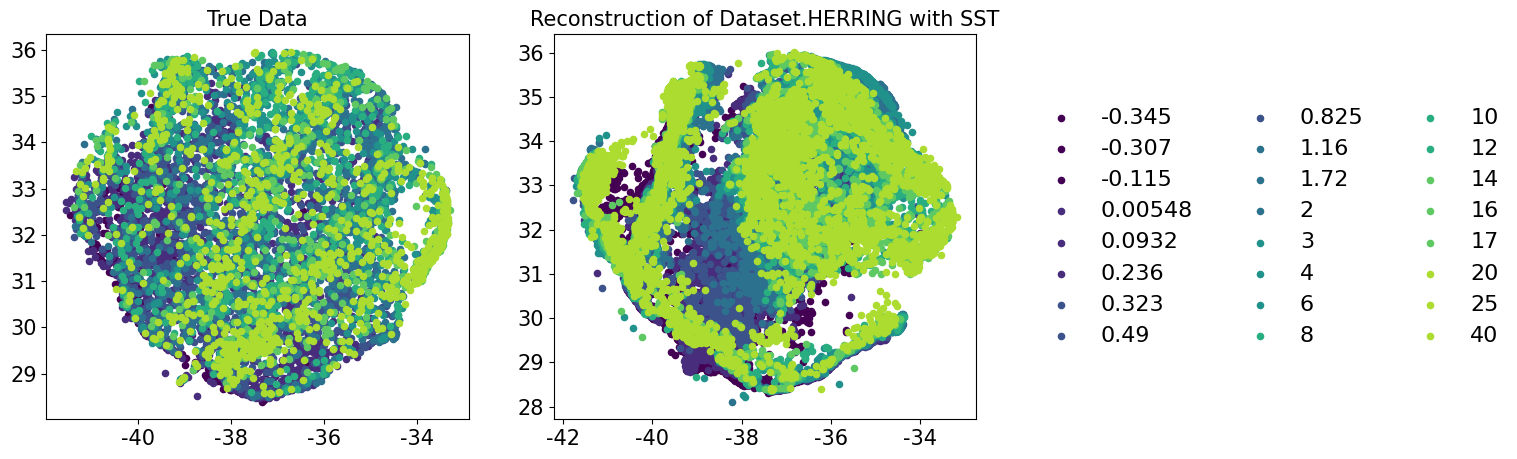
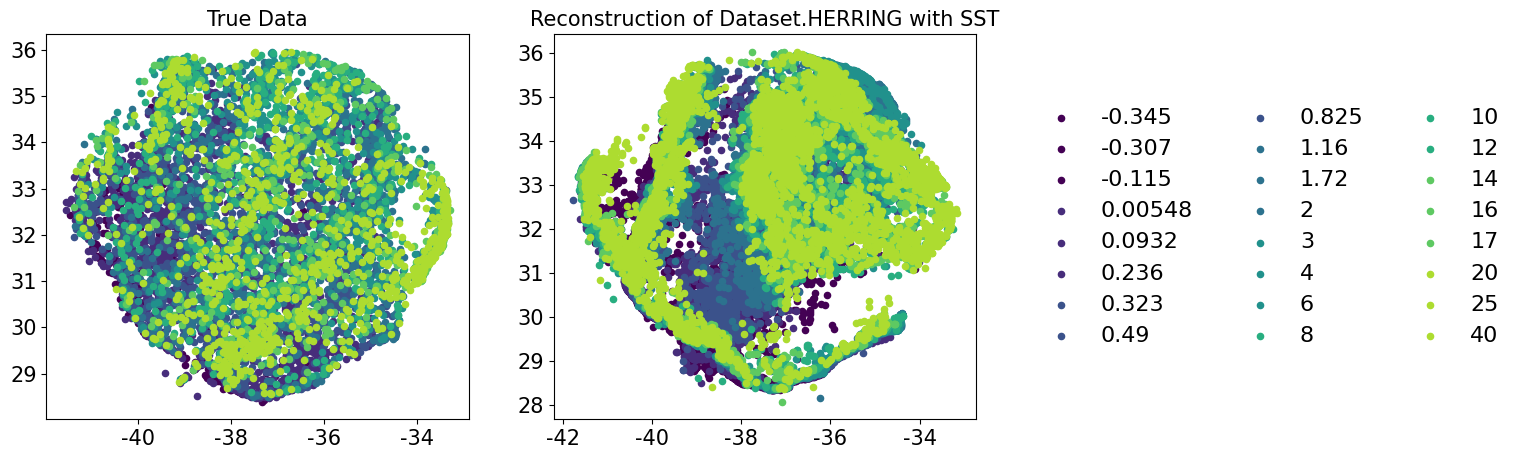
[fix] Fixed it for training on all cells
1. It can now train on all cells while maintaining the umap embeddings
used for each individual run.
2. Consolidated the changes to be within train_per_cell_type.py

diff --git a/benchmark/train_per_cell_type.py b/benchmark/train_per_cell_type.py
@@ -42,7 +42,10 @@ def tps_to_continuous(tps, times_sorted):
 
 def prep_splits_herring(ann_data, n_tps, data_name, cell_type):
     # preps the data per cell type
-    cell_ann_data = ann_data[ann_data.obs['major_clust'] == cell_type].copy()
+    if cell_type != '':
+        cell_ann_data = ann_data[ann_data.obs['major_clust'] == cell_type].copy()
+    else:
+        cell_ann_data = ann_data.copy()
 
     # now we need to create an order list of cell time points
     # and create an index for it
@@ -183,7 +186,8 @@ def visualize_umap_embeds(
     cell_type='all',
     use_normalized=False,
     tps=None,
-    data_name=Dataset.HERRING
+    data_name=Dataset.HERRING,
+    train_from_all=False
 ):
     from plotting.PlottingUtils import umapWithPCA
     from plotting.visualization import plotPredAllTime, plotPredTestTime
@@ -226,7 +230,7 @@ def visualize_umap_embeds(
     pred_umap_traj = umap_model.transform(pca_model.transform(np.concatenate(reorder_pred_data, axis=0)))
 
     # create the directories if they don't exist
-    dir = f'continuous{"/normalized" if use_normalized else ""}/{data_name}/{split_type}/per_cell_type_train'
+    dir = f'continuous{"/normalized" if use_normalized else ""}/{data_name}/{split_type}/{"per_cell_type_train" if not train_from_all else "all_cell_types_train"}'
     os.makedirs(f'figs/{dir}', exist_ok=True)
 
     plotPredAllTime(
@@ -497,15 +501,18 @@ def train_and_visualize(
             traj_data,
             test_tps,
             split_type=split_type,
-            cell_type=cell_type,
+            cell_type=cell_type if cell_type != '' else 'all',
             use_normalized=args.normalize,
             tps=tps,
-            data_name=data_name
+            data_name=data_name,
+            train_from_all=cell_type == ''
         )
 
     if args.traj_view:
         print(tps)
         predict_cell_traj(all_recon_obs, traj_data, train_data, train_tps, tps, data_name)
+
+    return latent_ode_model
 
 
 if __name__ == '__main__':
@@ -551,6 +558,7 @@ if __name__ == '__main__':
     # so we add an argument to train a specific cell type, if it doesn't exist
     # then we train all cell types
     parser.add_argument('--cell_type_to_train', type=str, default="")
+    parser.add_argument('--cell_type_to_vis', type=str, default="")
 
     args = parser.parse_args()
 
@@ -573,28 +581,71 @@ if __name__ == '__main__':
     # Think about the total number of cells per timepoint
     # now we want to split it per cell-type
     if args.cell_type_to_train == '':
-        # train all of the data
-        for cell_type in major_clust:
-            cell_ann_data, train_data, train_tps, test_data, test_tps, traj_data, tps, all_times_sorted =\
-                prep_splits(
-                    ann_data,
-                    n_tps,
-                    data_name,
-                    cell_type=cell_type
-                )
-            train_and_visualize(
-                train_data,
-                train_tps,
-                traj_data,
-                tps,
-                n_genes,
-                args,
-                test_tps,
-                split_type,
+        # train all of the data, i.e. all of them together
+        cell_ann_data, train_data, train_tps, test_data, test_tps, traj_data, tps, all_times_sorted =\
+            prep_splits(
+                ann_data,
+                n_tps,
                 data_name,
-                cell_type=cell_type,
-                all_times_sorted=all_times_sorted
+                cell_type=''
             )
+
+        latent_ode_model = train_and_visualize(
+            train_data,
+            train_tps,
+            traj_data,
+            tps,
+            n_genes,
+            args,
+            test_tps,
+            split_type,
+            data_name,
+            cell_type='',
+            all_times_sorted=all_times_sorted
+        )
+        
+        if args.cell_type_to_vis != '':
+            cell_type = args.cell_type_to_vis
+            cell_type_data = ann_data[ann_data.obs['major_clust'] == cell_type].copy()
+            cell_tps = cell_type_data.obs["numerical_age"]
+            times_sorted = sorted(
+                cell_type_data.obs['numerical_age'].unique().tolist()
+            )
+
+            # cell type for traj data at ...
+            cell_traj_data = [
+                torch.FloatTensor(
+                    cell_type_data.X[np.where(cell_tps == t)[0], :].toarray()
+                )
+                for t in times_sorted
+            ]
+
+            # only predict the relevant time points based on times_sorted
+            tps = tps_to_continuous(tps, all_times_sorted)
+
+            test_tps = tps_to_continuous(test_tps, all_times_sorted)
+            print(f'test tps under train_and_visualize: {test_tps}')
+
+            n_sim_cells = 2000
+
+            recon_obs = scNODEPredict(
+                latent_ode_model,
+                cell_traj_data[0],
+                tps,
+                n_cells=n_sim_cells
+            )
+            visualize_umap_embeds(
+                recon_obs,
+                cell_traj_data,
+                test_tps,
+                split_type=split_type,
+                cell_type=cell_type,
+                use_normalized=args.normalize,
+                tps=tps,
+                data_name=data_name,
+                train_from_all=True
+            )
+
     else:
         cell_type = args.cell_type_to_train
         print(f'Training for cell type: {cell_type}')
